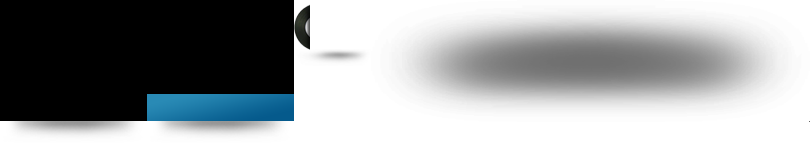
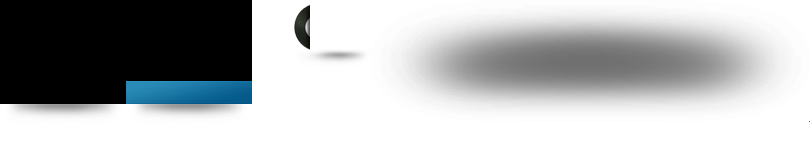
CHANGED: gallery overlay, Tags, Artists List; ADDED: Related (Artists)

Changed region(s): [[0.0, 0.0, 0.3704, 0.951]]

diff --git a/public/stylesheets/layout.css b/public/stylesheets/layout.css
@@ -209,25 +209,28 @@ a { text-decoration: none; color: #7d8791; }
 
 .artists li
 {
-  width: 147px;
-  height: 143px;
+  width: 126px;
+  height: 123px;
   background: url('../images/bg/fuse.png') 0 0;
   float: left;
-  margin: 0 13px 20px 0;
+  margin: 0 11px 20px 0;
 }
-.artists div { position: relative; width: 147px; height: 94px; overflow: hidden; }
+.artists div { position: relative; width: 126px; height: 81px; overflow: hidden; }
 .artists img { float: left; }
 .artists p
 {
   color: White;
   font-size: 12px;
-  height: 27px; line-height: 27px;
+  height: 23px; line-height: 23px;
   text-indent: 10px;
   font-family: AauxNextBold, "Segoe UI", Arial, sans-serif; 
   display: inline-block;
   width: 100%;
 }
-.artists li:first-child { background-position: -147px 0; }
+.artists li:first-child { background-position: -126px 0; }
+
+.related .artists li { margin-right: 6px; }
+.related .artists li:first-child { background-position: 0 0; }
 
 #search_all
 {
@@ -286,10 +289,18 @@ div[wheel] > div { display: none; opacity: 0.0; position: relative; }
   width: 439px;
   height: 281px;
   background: url('../images/bg/fuse.png') -401px 160px no-repeat;
+  overflow: hidden;
 }
-#artist .side .img img { width: 363px; height: 241px; }
+#artist .side .img div
+{
+  width: 363px;
+  height: 241px;
+  position: relative;
+  overflow: hidden;
+}
 #artist .description { width: 363px; font-size: 12px; }
-#artist .description span { color: #2e353c; }
+#artist .description a {text-decoration: underline; }
+#artist .description span, #artist .description span a { color: #2e353c; text-decoration: none;}
 #artist .main
 {
   float: right;
@@ -307,7 +318,7 @@ div[wheel] > div { display: none; opacity: 0.0; position: relative; }
   padding: 7px;
   border: 1px solid #e9edf0;
   display: inline;
-  vertical-align: middle;
+  vertical-align: bottom;
   margin-bottom: 10px;
 }
 #artist .gallery a
@@ -356,12 +367,68 @@ div[wheel] > div { display: none; opacity: 0.0; position: relative; }
 	margin-left: -136px;
 }
 #overlayGallery .content img { float: left; }
-#overlayGallery .content { 
+#overlayGallery .content 
+{ 
   overflow: hidden;
   width: 252px;
+  min-height: 150px;
+  background: #0d1213 url('../images/placeholder/gallery.png') no-repeat center;
+}
+#overlayGallery .original 
+{
+  position: absolute;
+  bottom: 25px; margin-left: -48px;
+  display: none;
+}
+/*
+.overlay
+{
+  background: rgba(255,255,255,0.6);
+  padding: 7px;
+  border-radius: 14px;
+  -moz-border-radius: 14px;
+  -webkit-border-radius: 14px;
+  -moz-box-shadow: 0 0 5px 5px rgba(0,0,0,0.2);
+  -webkit-box-shadow: 0 0 10px 10px rgba(0,0,0,0.2);
+  box-shadow: 0 0 3px 3px rgba(0,0,0,0.1);
+  width: 488px;
+	display: none;
+}
+.overlay > div
+{
+  background: #1a1c1f;
+  border-radius: 8px;
+  -moz-border-radius: 8px;
+  -webkit-border-radius: 8px;
+}
+.overlay .content 
+{
+  padding: 10px;
+}
+.overlay .close
+{
+	position: absolute;
+	right: 134px; top: 20px;
+  cursor: pointer;
+  z-index: 9999;
+}
+
+#overlayGallery .close { right: 76px;}
+#overlayGallery
+{
+  width: 600px;
+	display: none;
+	margin-left: -300px;
+}
+#overlayGallery .content img { float: left; }
+#overlayGallery .content { 
+  overflow: hidden;
+  width: 580px;
+  min-height: 150px;
   background: #0d1213 url('../images/placeholder/gallery.png') no-repeat center;
 }
 
+*/
 
 
 

diff --git a/public/javascripts/application.js b/public/javascripts/application.js
@@ -6,11 +6,11 @@ $(document).ready(function(){
   initNavigation(); // set positions and :active for navigation elements
   handleNavigation(); // handle animations and content switch
   orderNavigation(); // order if predefined category
-  
-  fitArtistImages(); // resize and resposition images (artists, album)
   onImageError(); // replace broken image links with placeholders
-
   initPictureOverlay();
+  
+  fitImages(".artists img"); // resize and resposition images (artists, album)
+  fitImages("#artist .side .img img");
 });
 
 $(window).load(function() {
@@ -21,11 +21,18 @@ $(window).load(function() {
 function initPictureOverlay(){
   $('#artist .gallery a').live("click", function(){
     $src = $(this).attr("picture");
-    $('#overlayGallery .content img').hide().attr('src', $src).show();
+    $original = $(this).attr("original");
+    $('#overlayGallery .original').hide().attr('href', $original);
+    $('#overlayGallery .content .galleryimage').hide().attr('src', $src)
+      .bind("load", function() {    
+        $(this).fadeIn(300, function(){
+          $('#overlayGallery .original').fadeIn(300);
+        });
+    });   
   });
   $('#overlayGallery .close').click(function(){
     setTimeout(
-      "$('#overlayGallery .content img').attr('src', '/images/placeholder/gallery.png');"
+      "$('#overlayGallery .content .galleryimage').attr('src', '/images/placeholder/gallery.png');"
     , 450);
   });
 }
@@ -43,21 +50,29 @@ function ajj(){
 
 
 
-function fitArtistImages() {
-	$("ul.artists img").each(function() {
+function fitImages(selector) {
+  switch(selector)
+  {
+    case ".artists img": divWidth = 126, divHeight = 81; break;
+    case "#artist .side .img img": divWidth = 363, divHeight = 241; break;
+  }
+	$(selector).each(function() {
 		$(this).wrap("<div />");
-		divWidth = 147, divHeight = 94;
 		
 		// use this instead of $(this).width(); because .width() of hidden images is zero!
 		width = this.width;
 		height = this.height;
-
 		if( width < divWidth ) {
 			scaleRatio = width / divWidth;
 			width = divWidth;
 			height /= scaleRatio;
 		}
-		
+    else {
+      scaleRatio = width / divWidth;
+			width = divWidth;
+			height /= scaleRatio;
+    }
+    
 		if ( height < divHeight ) {
 			scaleRatio = height / divHeight;
 			height = divHeight;
@@ -99,7 +114,7 @@ function initSearchDropdown()
 // list fixes
 function fixLists()
 {
-  $(".artists li:nth-child(6n)").css("marginRight", 0);
+  $(".artists li:nth-child(7n)").css("marginRight", 0);
   $(".songs.tab li:nth-child(2n)").css("marginRight", 0);
   $("#artist .gallery a:nth-child(6n)").css("marginRight", 0);
 }

diff --git a/app/controllers/search_controller.rb b/app/controllers/search_controller.rb
@@ -6,7 +6,7 @@ class SearchController < ApplicationController
     end
     
     if !params[:q].nil?
-      @artists = LastFM::Artist.search(params[:q].to_s.lstrip, 18)
+      @artists = LastFM::Artist.search(params[:q].to_s.lstrip, 14)
       @tracks = LastFM::Track.search(params[:q].to_s.lstrip, 24)
       @albums = LastFM::Album.search(params[:q].to_s.lstrip, 16)
     end
